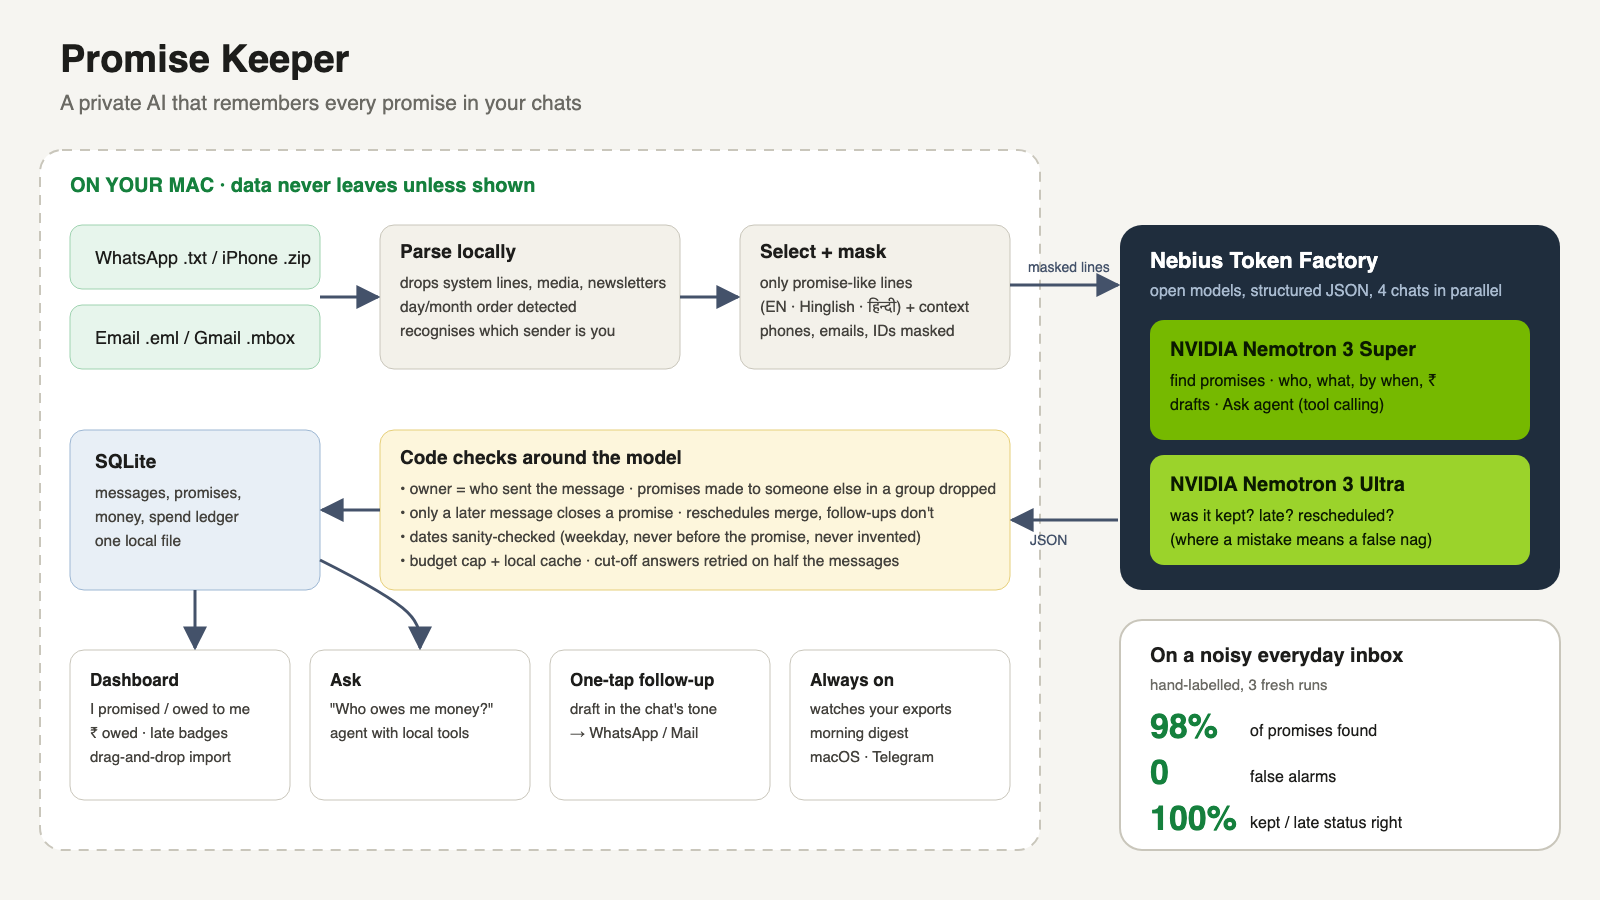
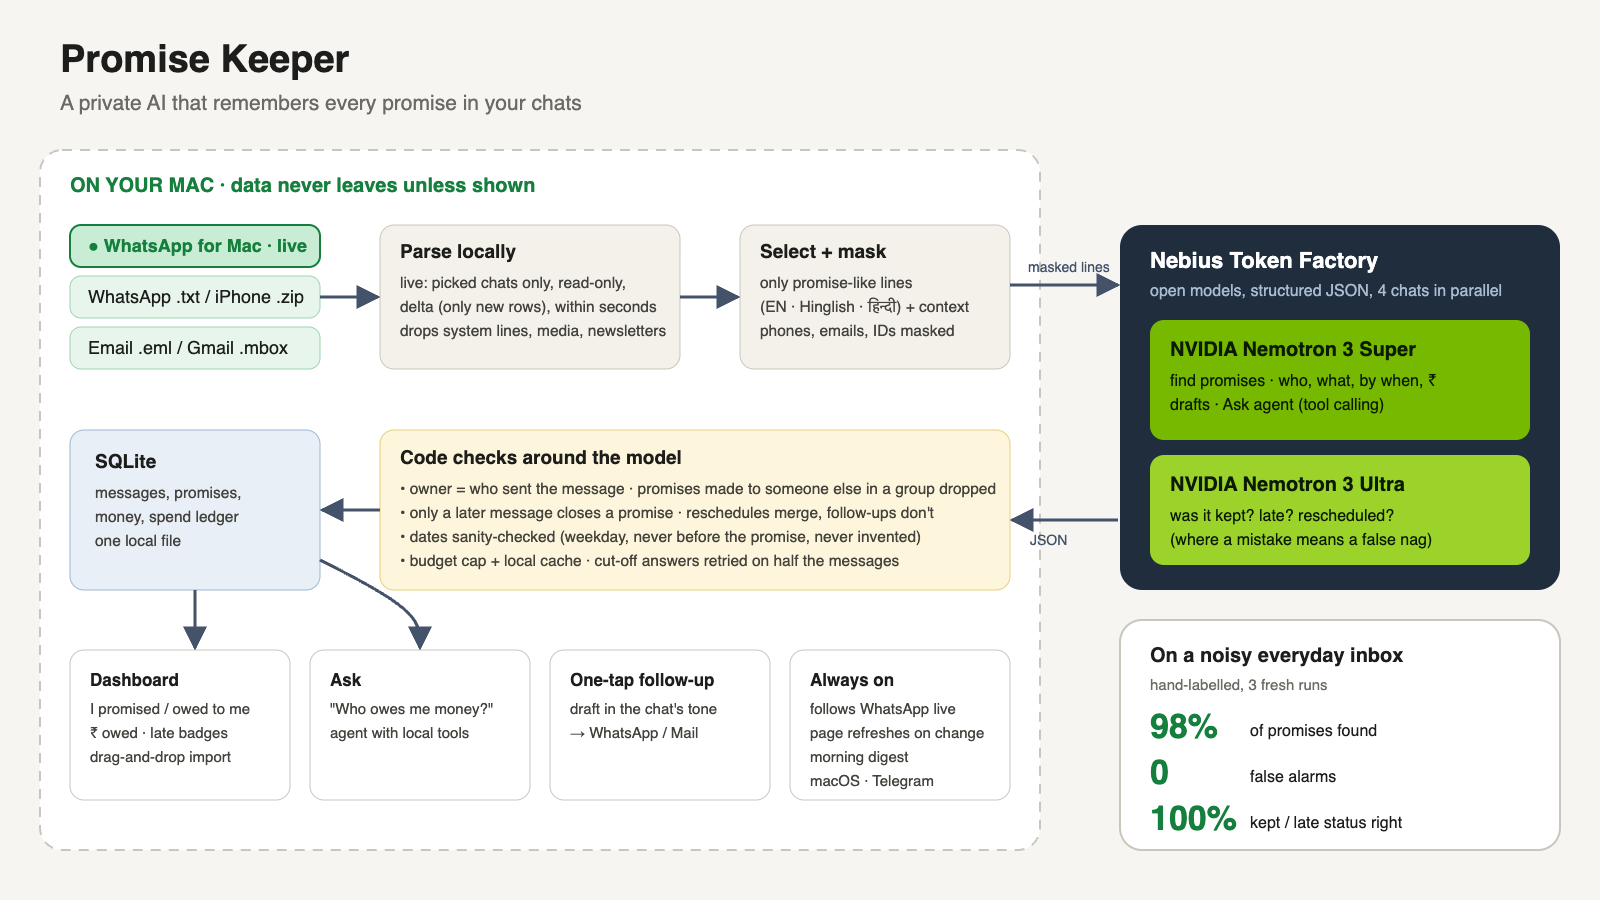
Drafts never invent excuses; answer bullets; live sync in the architecture diagram

Changed region(s): [[0.0312, 0.2489, 0.2188, 0.4044], [0.5, 0.7778, 0.625, 0.8711], [0.25, 0.3111, 0.4062, 0.3733]]

diff --git a/promise_keeper/static/index.html b/promise_keeper/static/index.html
@@ -478,7 +478,7 @@ $("askform").onsubmit = async e => {
       const args = Object.entries(t.args || {}).map(([k, v]) => `${k}=${JSON.stringify(v)}`).join(", ");
       return `<code>${esc(t.tool)}(${esc(args)})</code>`;
     }).join(" ");
-    box.innerHTML = esc(r.answer).replace(/\*\*(.+?)\*\*/g, "<b>$1</b>")
+    box.innerHTML = esc(r.answer).replace(/^\s*[-*] /gm, "• ").replace(/\*\*(.+?)\*\*/g, "<b>$1</b>")
       .replace(/\[#(\d+)\]/g, (m, id) => `<span class="ref" onclick="jump(${id})">#${id}</span>`) +
       (calls ? `<div class="tools">NVIDIA Nemotron agent called: ${calls}</div>` : "");
   } catch (err) { box.textContent = "Couldn't answer: " + err.message; }

diff --git a/promise_keeper/nudge.py b/promise_keeper/nudge.py
@@ -68,6 +68,7 @@ DRAFT_SYSTEM = """You write one short message for ME to send in an existing conv
 Match the language and tone of the conversation (Hinglish if they write Hinglish, formal for work email).
 Sound like a real person, not a bot. At most 60 words. No subject line, no placeholders like [Name].
 Never invent facts, reasons or plans that aren't in the conversation (no "I need it for a project").
+No excuses either ("got caught up", "was busy", "it slipped my mind") unless the conversation gives one.
 
 Cases:
 - ME promised and it's late: own it briefly and give a concrete new time within 2 days.
